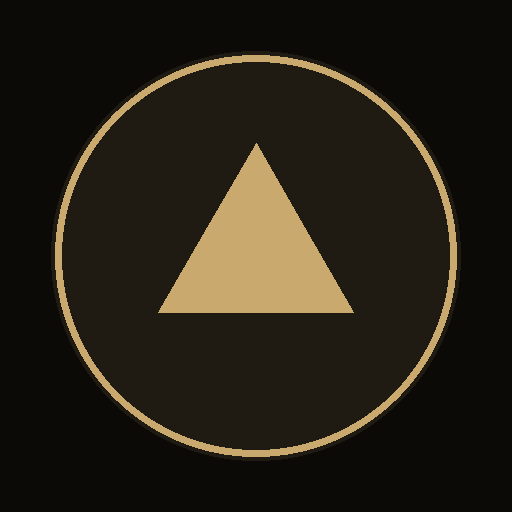
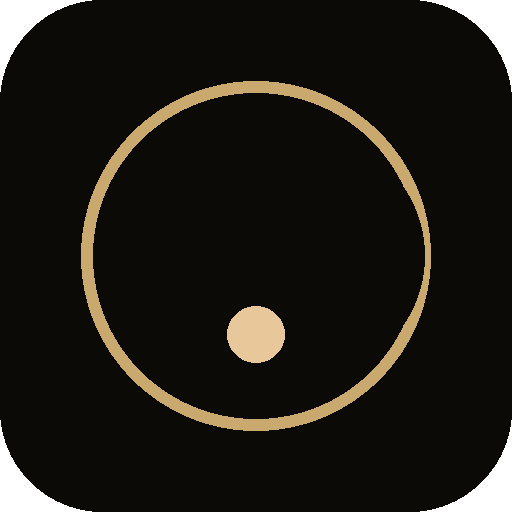
Add files via upload

diff --git a/sw.js b/sw.js
@@ -1,33 +1,78 @@
-const CACHE = 'asha-rhythm-v1';
+// ═══════════════════════════════════════
+//  Asha · My Life Rhythm — Service Worker
+// ═══════════════════════════════════════
+const CACHE = 'asha-v1';
 
-// Derive base path from the sw.js location — works on GitHub Pages subpaths
-// e.g. https://user.github.io/repo-name/sw.js  →  BASE = '/repo-name'
-const BASE = self.location.pathname.replace(/\/sw\.js$/, '');
-
-const ASSETS = [
-  BASE + '/index.html',
-  BASE + '/manifest.json',
-  BASE + '/icons/icon-192.png',
-  BASE + '/icons/icon-512.png'
+const PRECACHE = [
+  './',
+  './index.html',
+  './manifest.json',
+  './icons/icon-72.png',
+  './icons/icon-96.png',
+  './icons/icon-128.png',
+  './icons/icon-144.png',
+  './icons/icon-152.png',
+  './icons/icon-192.png',
+  './icons/icon-384.png',
+  './icons/icon-512.png',
 ];
 
+// ── Install: cache all core files ──────────────────────
 self.addEventListener('install', e => {
-  e.waitUntil(caches.open(CACHE).then(c => c.addAll(ASSETS)).then(() => self.skipWaiting()));
+  e.waitUntil(
+    caches.open(CACHE)
+      .then(c => c.addAll(PRECACHE))
+      .then(() => self.skipWaiting())
+  );
 });
 
+// ── Activate: remove old caches ────────────────────────
 self.addEventListener('activate', e => {
-  e.waitUntil(caches.keys().then(keys => Promise.all(keys.filter(k => k !== CACHE).map(k => caches.delete(k)))).then(() => self.clients.claim()));
+  e.waitUntil(
+    caches.keys()
+      .then(keys => Promise.all(
+        keys.filter(k => k !== CACHE).map(k => caches.delete(k))
+      ))
+      .then(() => self.clients.claim())
+  );
 });
 
+// ── Fetch: serve from cache, refresh in background ─────
 self.addEventListener('fetch', e => {
   if (e.request.method !== 'GET') return;
-  if (e.request.mode === 'navigate') {
+
+  const url = e.request.url;
+
+  // Google Fonts — network first, cache fallback
+  if (url.includes('fonts.googleapis.com') || url.includes('fonts.gstatic.com')) {
     e.respondWith(
-      fetch(e.request)
-        .then(r => { caches.open(CACHE).then(c => c.put(e.request, r.clone())); return r; })
-        .catch(() => caches.match(BASE + '/index.html'))
+      caches.open(CACHE).then(cache =>
+        fetch(e.request)
+          .then(res => { cache.put(e.request, res.clone()); return res; })
+          .catch(() => caches.match(e.request))
+      )
     );
     return;
   }
-  e.respondWith(caches.match(e.request).then(cached => cached || fetch(e.request).then(r => { if(r && r.status===200){ caches.open(CACHE).then(c => c.put(e.request, r.clone())); } return r; })));
+
+  // Same-origin — cache first, background refresh
+  if (url.startsWith(self.location.origin)) {
+    e.respondWith(
+      caches.match(e.request).then(cached => {
+        const networkFetch = fetch(e.request).then(res => {
+          if (res && res.status === 200) {
+            caches.open(CACHE).then(c => c.put(e.request, res.clone()));
+          }
+          return res;
+        }).catch(() => null);
+
+        return cached || networkFetch || caches.match('./index.html');
+      })
+    );
+  }
+});
+
+// ── Message: allow client to force update ──────────────
+self.addEventListener('message', e => {
+  if (e.data === 'SKIP_WAITING') self.skipWaiting();
 });